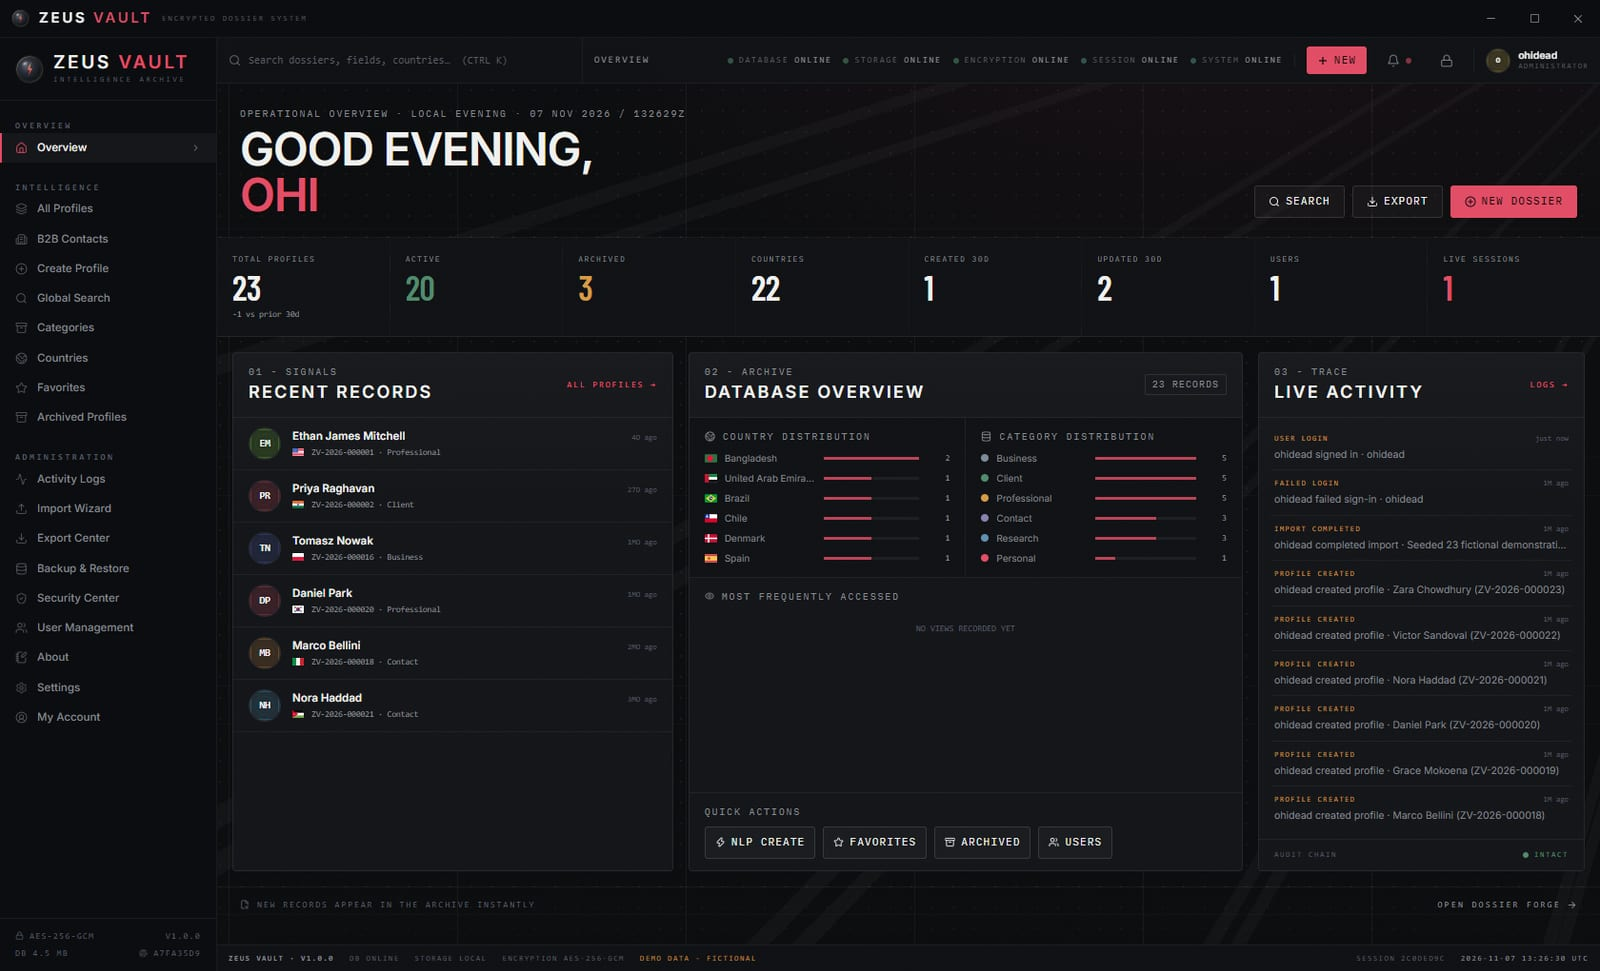
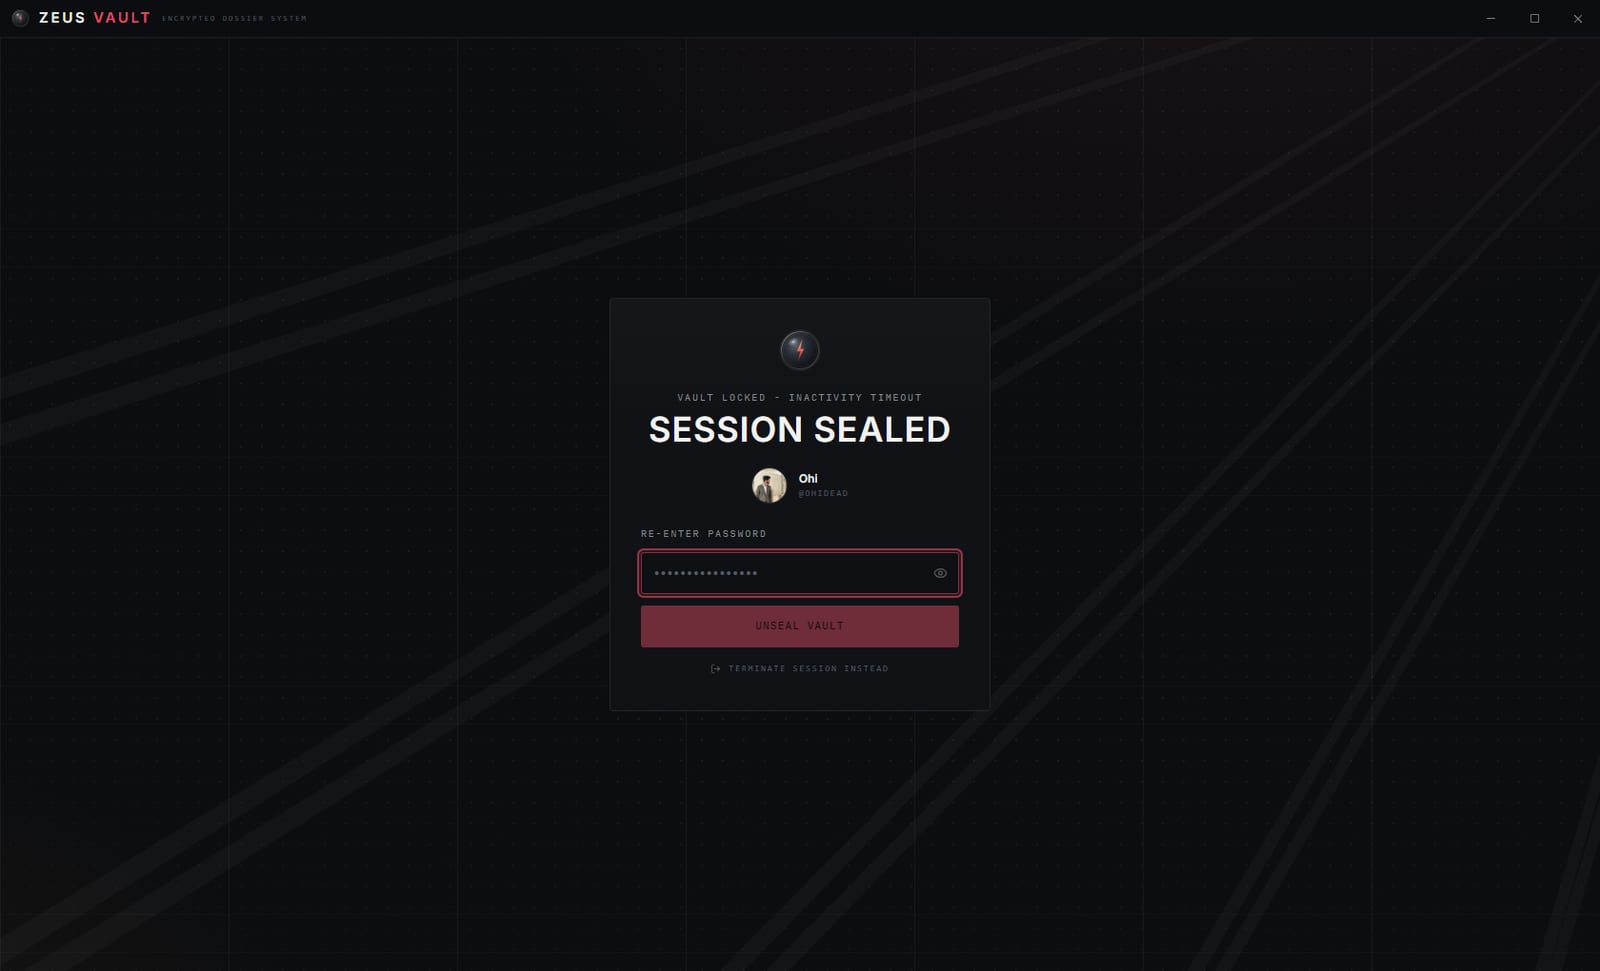
Refresh login screenshot and release checksum documentation

diff --git a/RELEASE_NOTES.md b/RELEASE_NOTES.md
@@ -41,4 +41,10 @@ After downloading, verify the installer matches the published checksum:
 certutil -hashfile .\ZeusVault-1.0.0-Setup.exe SHA256
 ```
 
+Or read it from the `SHA256SUMS.txt` file in the repository root:
+
+```
+807c605f73732ffda5485956dbdadf6018777c0195720412425149b8981eb67d  ZeusVault-1.0.0-Setup.exe
+```
+
 Compare to the hash published on the release page. If the hash differs, do not run the file.
